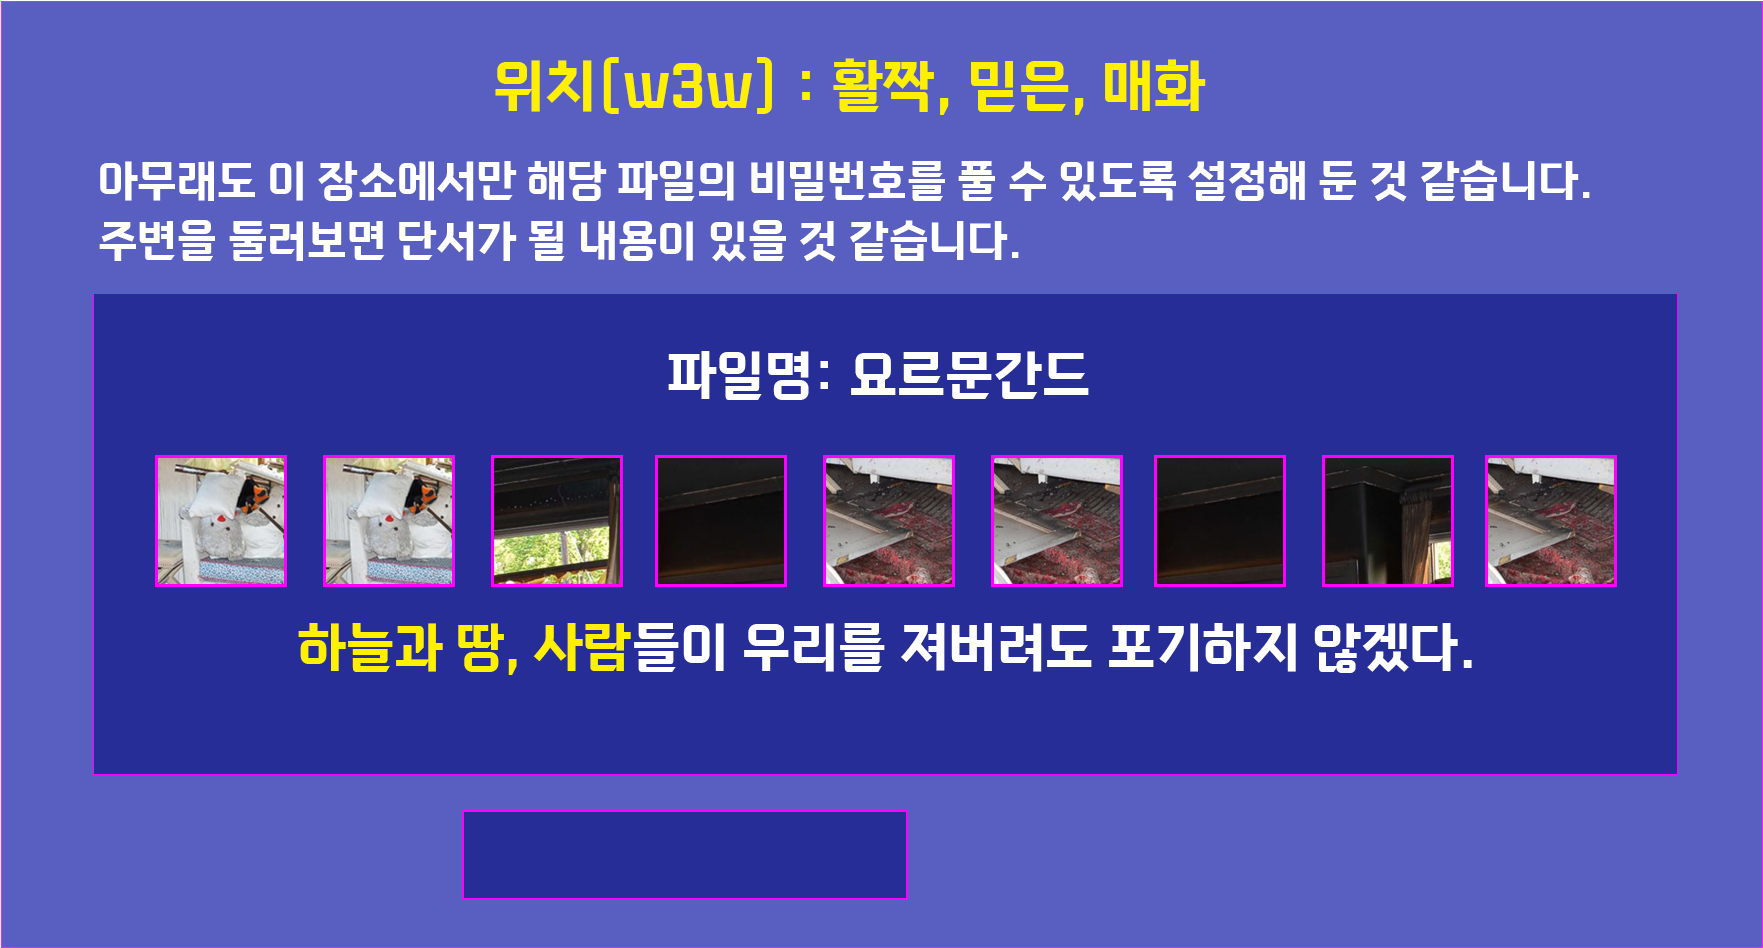
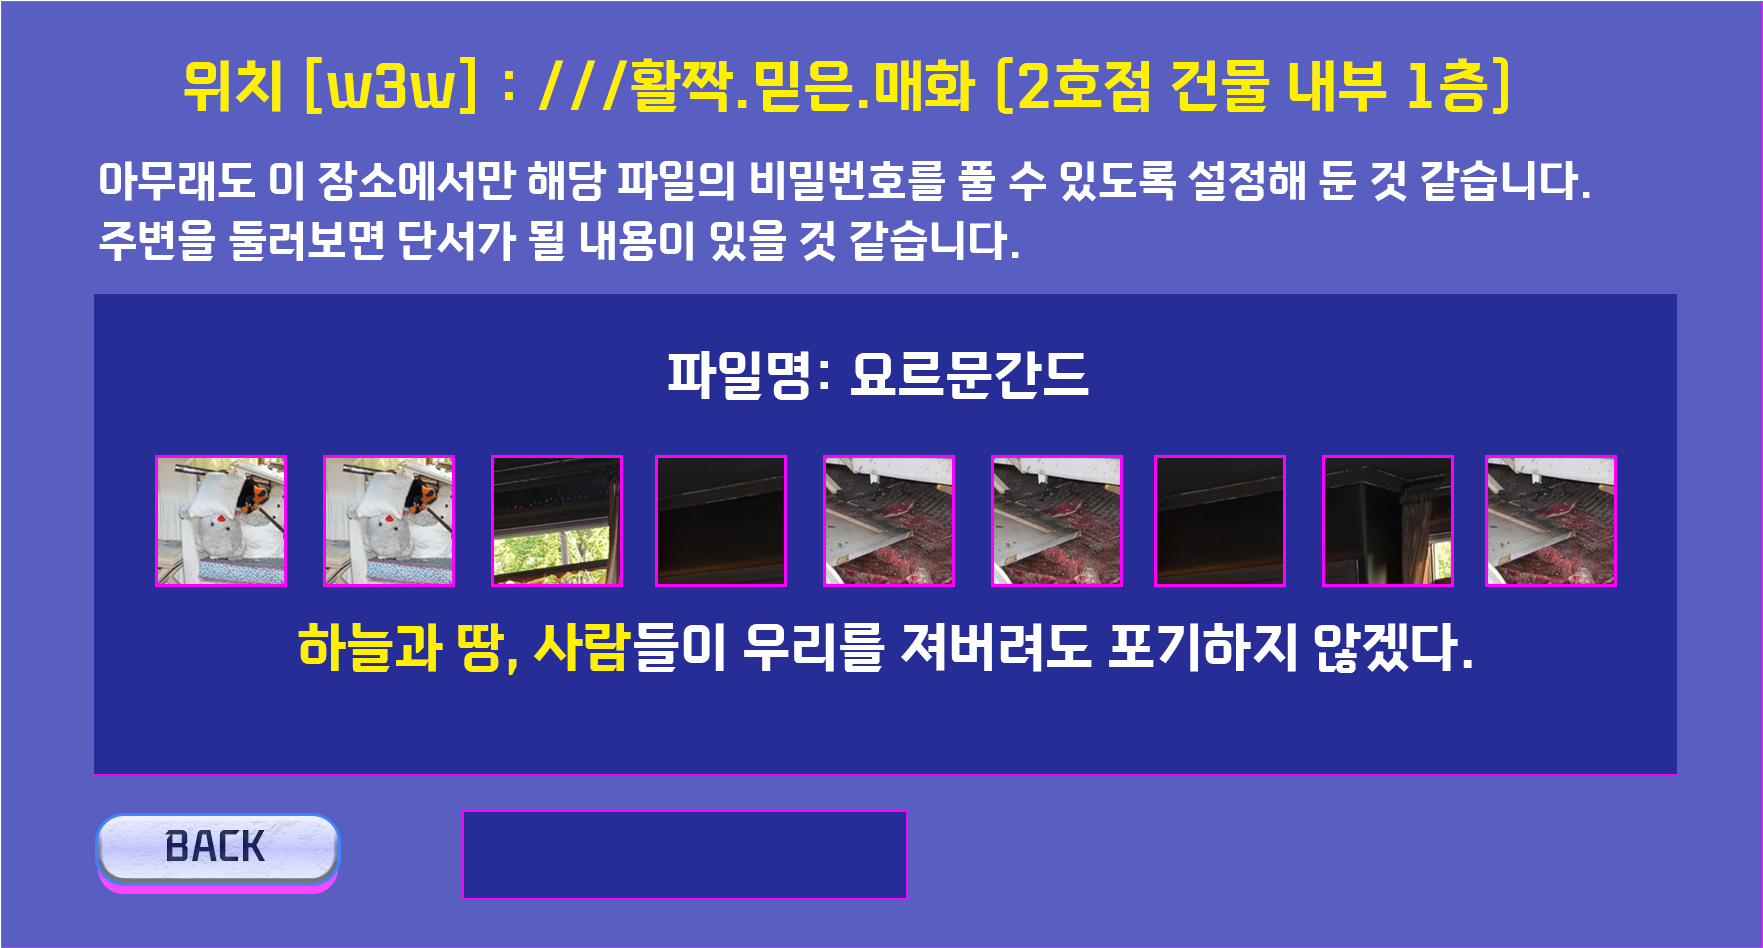
[!Release] 오프라인파트 3차 개발

Changed region(s): [[0.0936, 0.0612, 0.8735, 0.1224], [0.0312, 0.8565, 0.2184, 0.9483]]

diff --git a/OfflineEscape/index.html b/OfflineEscape/index.html
@@ -85,12 +85,18 @@
             <img class="jormungand_hint_next" id="jormungand_hint2_next" src="../OnlineEscape/assets/cain_message_next_button.png" alt="NEXT" />
         </div>
 
+        <div class="jormungand_page" id="jormungand_page_3_0">
+            <img class="jormungand_page_context" src="assets/off_3-0.png" alt="요르문간드 페이지 3-0" />
+            <img class="jormungand_page_button" id="w3w" src="assets/off_3_w3w_link_button.png" alt="w3w 지도 사이트(링크)" />
+            <img class="jormungand_page_next" id="next3" src="../OnlineEscape/assets/cain_message_next_button.png" alt="NEXT" />
+        </div>
+
         <div class="jormungand_page" id="jormungand_page_3">
             <img class="jormungand_page_context" src="assets/off_3.png" alt="요르문간드 페이지 3" />
-            <img class="jormungand_page_button" id="w3w" src="assets/off_3_w3w_link_button.png" alt="w3w 지도 사이트(링크)" />
             <input type="text" class="input_box" id="jormungand_input_4" />
             <img class="jormungand_page_button" id="answer3" src="assets/off_3_enter_button.png" alt="입력" />
             <img class="jormungand_page_button" id="hint3" src="assets/off_3_hint_button.png" alt="힌트" />
+            <img class="jormungand_page_back" id="back3" src="../OnlineEscape/assets/cain_message_back_button.png" alt="BACK" />
         </div>
 
         <div class="jormungand_hint" id="jormungand_hint3">
@@ -210,6 +216,7 @@
             <img class="hint" id="building6_hint2" src="assets/off_quest_hint.png" alt="힌트" />
 
             <img id="building6_black_box" src="assets/blackbox_button.png" alt="블랙박스 영상" />
+            <iframe id="building6_youtube" width="400" height="200" src="https://www.youtube.com/embed/veoW3C6Oaww?si=XYQLjvMaa25bvxA_" frameborder="0" allowfullscreen></iframe>
             
             <input type="text" class="input_box building_input" id="building6_input3" />
             <img class="enter" id="building6_enter3" src="assets/off_quest_ok.png" alt="입력" />

diff --git a/OfflineEscape/script.js b/OfflineEscape/script.js
@@ -59,7 +59,7 @@ answer2.addEventListener("click", function () {
   // if (true) {
   if (jormungand_input_1.value === "발바닥" && jormungand_input_2.value === "체력" && jormungand_input_3.value === "구간") {
     // click_sound.play();
-    jormungand_page_3.style.display = "flex";
+    jormungand_page_3_0.style.display = "flex";
     jormungand_page_2.style.display = "none";
   } else {
     wrong();
@@ -107,9 +107,19 @@ jormungand_hint2_back.addEventListener('click', function () {
 
 w3w.addEventListener("click", function () {
   window.open(
-    "https://what3words.com/%EB%B0%9C%EB%B0%94%EB%8B%A5.%EC%B2%B4%EB%A0%A5.%EA%B5%AC%EA%B0%84",
+    "https://m.map.kakao.com/actions/searchView?q=%2F%2F%2F%EB%B0%9C%EB%B0%94%EB%8B%A5.%EC%B2%B4%EB%A0%A5.%EA%B5%AC%EA%B0%84&wxEnc=LVSOTP&wyEnc=QNLTTMN&lvl=4",
     "_blank"
   );
+});
+next3.addEventListener("click", function () {
+  // click_sound.play();
+  jormungand_page_3.style.display = "flex";
+  jormungand_page_3_0.style.display = "none";
+});
+back3.addEventListener("click", function () {
+  // click_sound.play();
+  jormungand_page_3_0.style.display = "flex";
+  jormungand_page_3.style.display = "none";
 });
 answer3.addEventListener("click", function () {
   // if (true) {
@@ -1010,6 +1020,7 @@ building_hint6_2_back.addEventListener('click', function () {
 building6_black_box.addEventListener("click", function () {
   // click_sound.play();
   building6_black_box.style.display = "none";
+  building6_youtube.style.display = "flex";
   building6_context.src = "assets/blackbox_video.png";
   building6_input3.style.display = "flex";
   building6_enter3.style.display = "flex";
@@ -1030,6 +1041,7 @@ building6_enter3.addEventListener("click", function () {
   ) {
     // click_sound.play();
     building6_context.src = "assets/off_subway_quest10.png";
+    building6_youtube.style.display = "none";
     building6_input3.style.display = "none";
     building6_enter3.style.display = "none";
     building6_hint3.style.display = "none";

diff --git a/OfflineEscape/style.css b/OfflineEscape/style.css
@@ -180,11 +180,11 @@ body {
   width: 140px;
   height: 20px;
   left: 136px;
-  bottom: 24px;
+  bottom: 15px;
 }
 #enter0 {
   right: 120px;
-  bottom: 22px;
+  bottom: 13px;
 }
 
 #jormungand_input_1 {
@@ -213,7 +213,7 @@ body {
 }
 
 #w3w {
-  top: 90px;
+  top: 78px;
 }
 #jormungand_input_4 {
   width: 120px;
@@ -468,14 +468,15 @@ body {
 
 #building4_next {
   display: flex;
-  height: 22px;
+  height: 24px;
   bottom: 16px;
   right: 16px;
 }
 #building4_back {
-  height: 22px;
+  height: 24px;
   bottom: 16px;
-  left: 16px;
+  left: 24px;
+  opacity: 0;
 }
 #building4_input {
   display: none;
@@ -522,6 +523,12 @@ body {
   height: 30px;
   bottom: 12px;
   cursor: pointer;
+}
+
+#building6_youtube {
+  display: none;
+  position: absolute;
+  top: 18px;
 }
 
 #building6_input3 {
